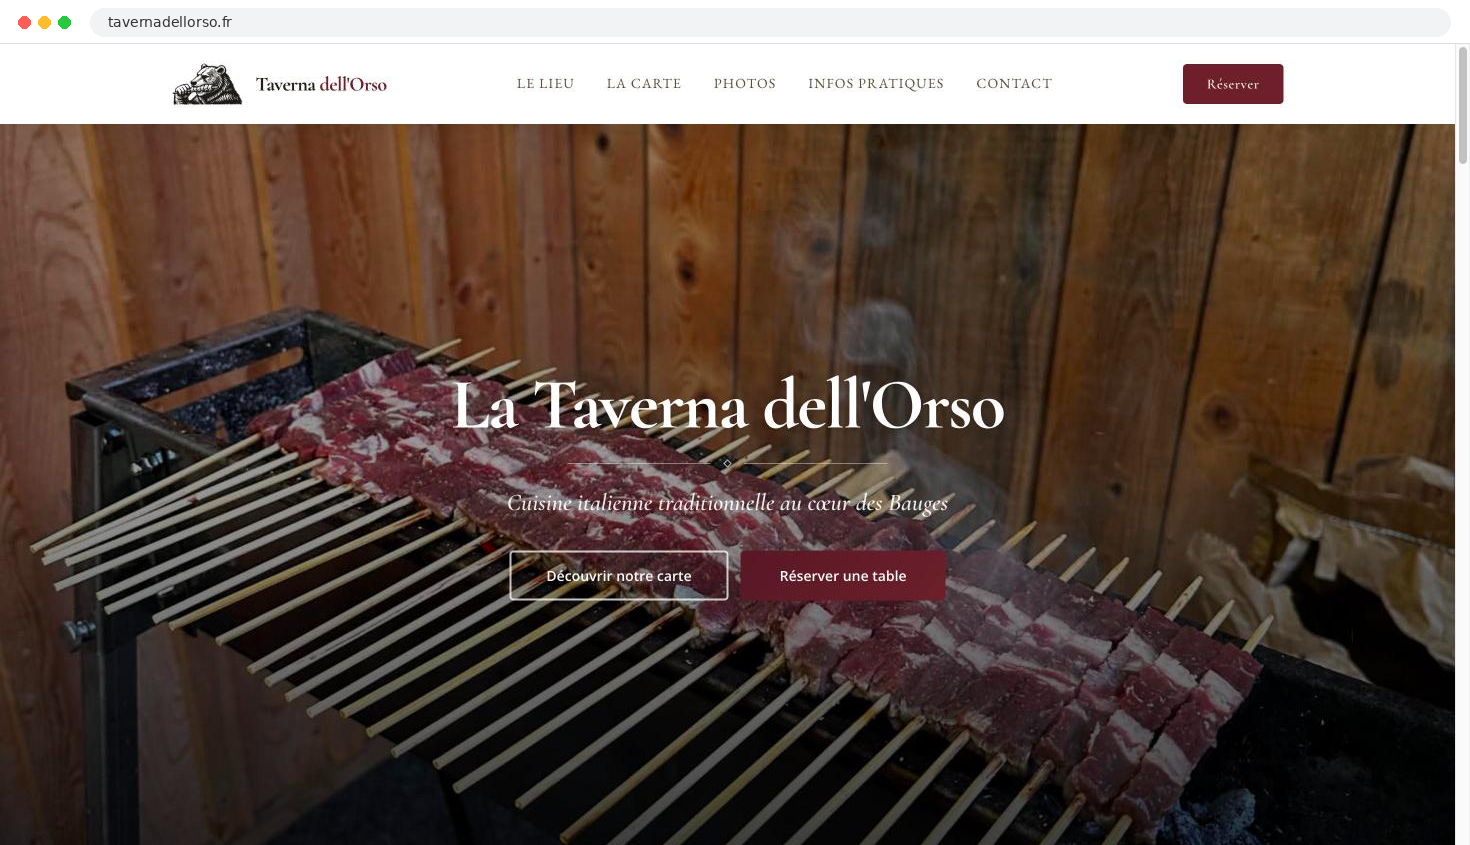
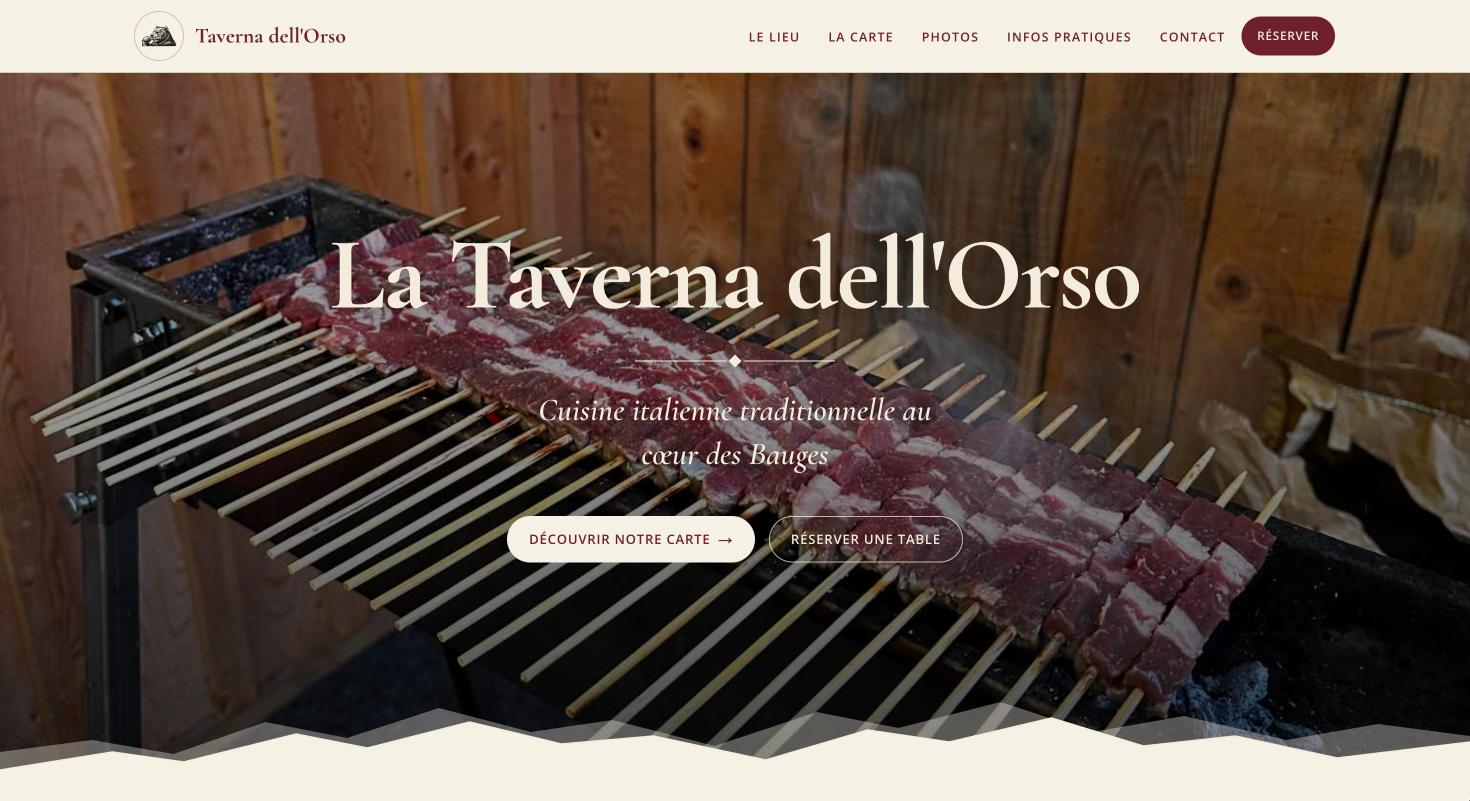
Réalisations : nouveaux screens CGD Pro et Taverna, CGD Pro en ligne, ajout GD Concept
- Captures du hero mises à jour (CGD Pro, Taverna dell'Orso)
- CGD Pro passe en statut "en-ligne", description ajustée
- Ajout de GD Concept (en cours)

Claude-Session: https://claude.ai/code/session_017fsa9PYAYxNrWon73XhHNN

diff --git a/lib/realisations.ts b/lib/realisations.ts
@@ -90,9 +90,9 @@ export const realisations: Realisation[] = [
     tag: "Impression 3D · Toulouse",
     nom: "CGD Pro",
     description:
-      "Pièces techniques en impression 3D. Demande de devis avec envoi des fichiers STL/STEP ; les photos de réalisations sont en cours d'ajout.",
+      "Pièces techniques en impression 3D. Demande de devis avec envoi des fichiers STL/STEP, galerie de réalisations et FAQ.",
     lien: "https://www.cgd-pro.fr",
-    statut: "en-cours",
+    statut: "en-ligne",
   },
   {
     slug: "tom-keude",
@@ -103,6 +103,17 @@ export const realisations: Realisation[] = [
     description:
       "Créations cousues main à partir de matériaux récupérés. Catalogue et contact direct pour commander ; la vente en ligne viendra dans un second temps.",
     lien: "https://www.tom-keude.fr",
+    statut: "en-cours",
+  },
+  {
+    slug: "gd-concept",
+    image: "/gd-concept.png",
+    alt: "Site GD Concept — Charpentier éco-constructeur près de Lyon",
+    tag: "Charpente & construction bois · Lyon",
+    nom: "GD Concept",
+    description:
+      "Charpentier éco-constructeur à Soucieu-en-Jarrest. Présentation des services (charpente, couverture, isolation, ossature bois), démarche, avis et galerie de chantiers.",
+    lien: "https://gd-concept.vercel.app",
     statut: "en-cours",
   },
 ];
